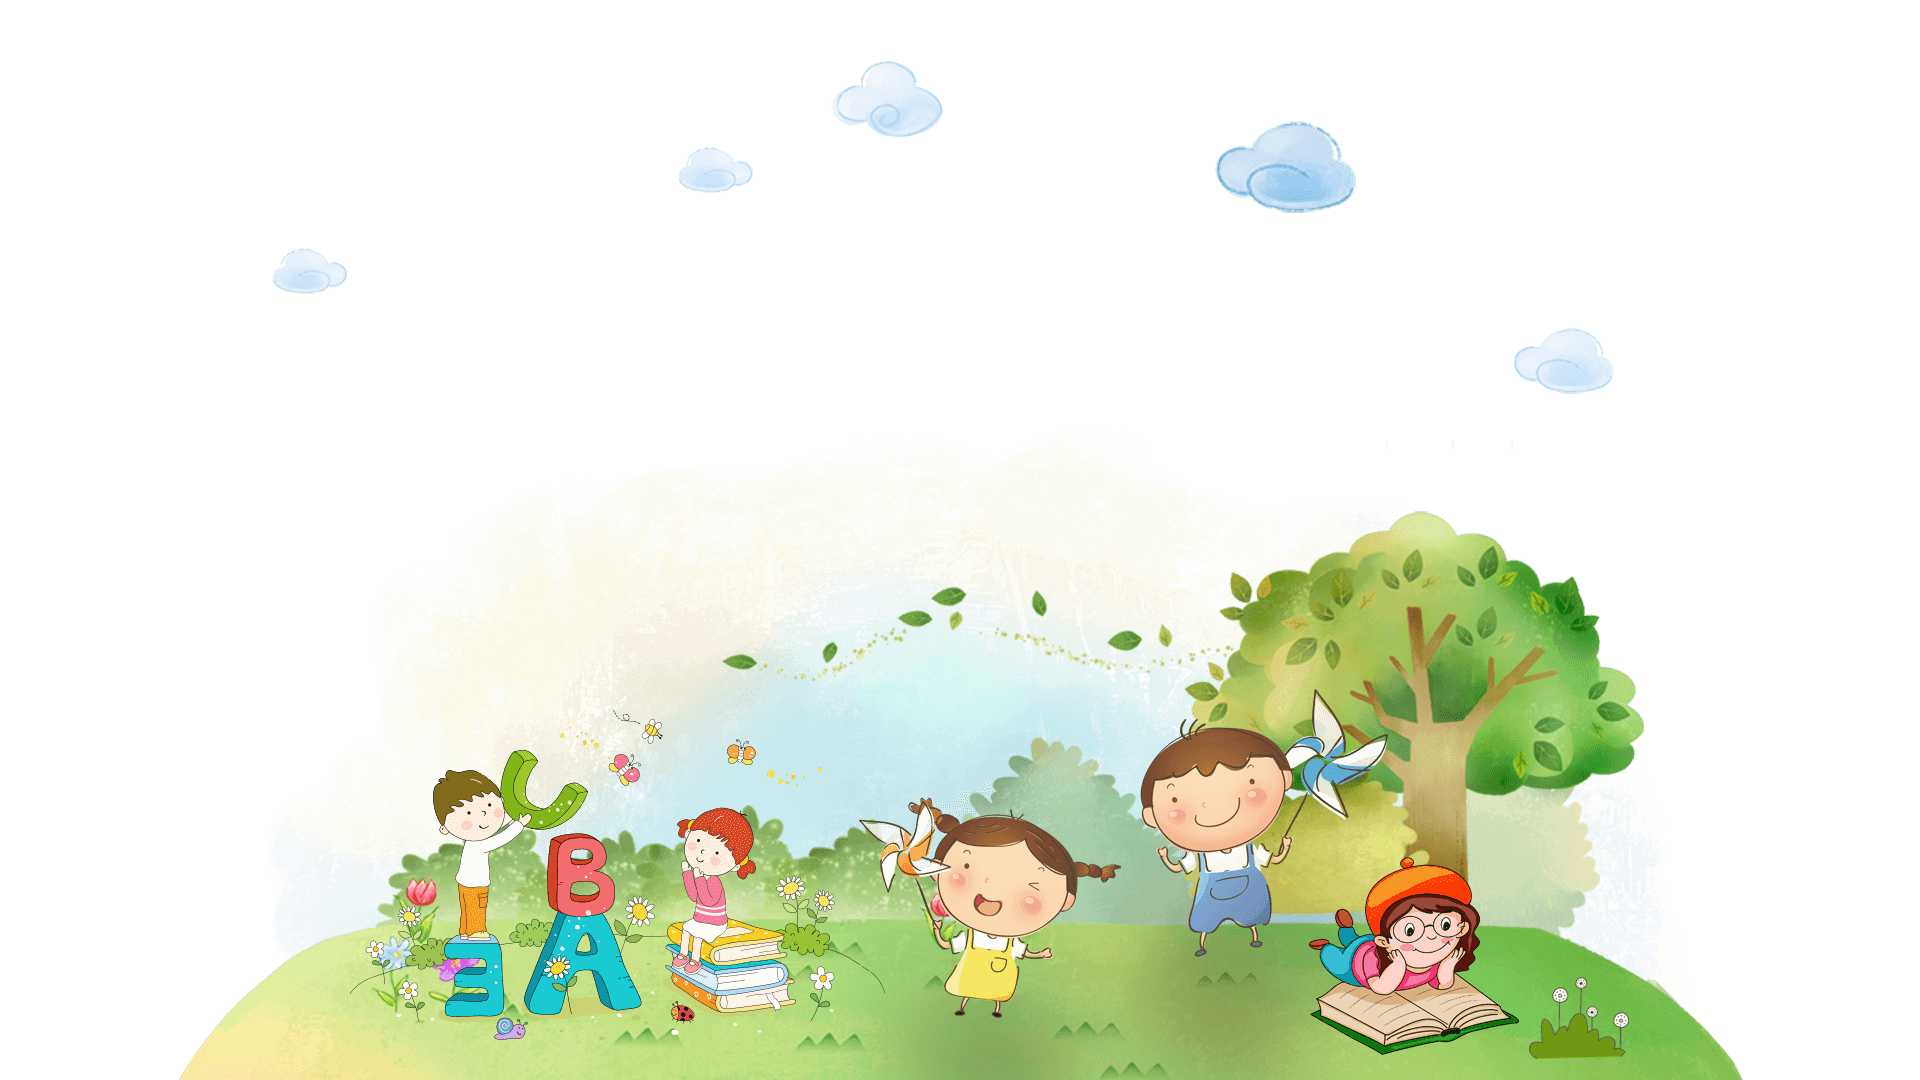
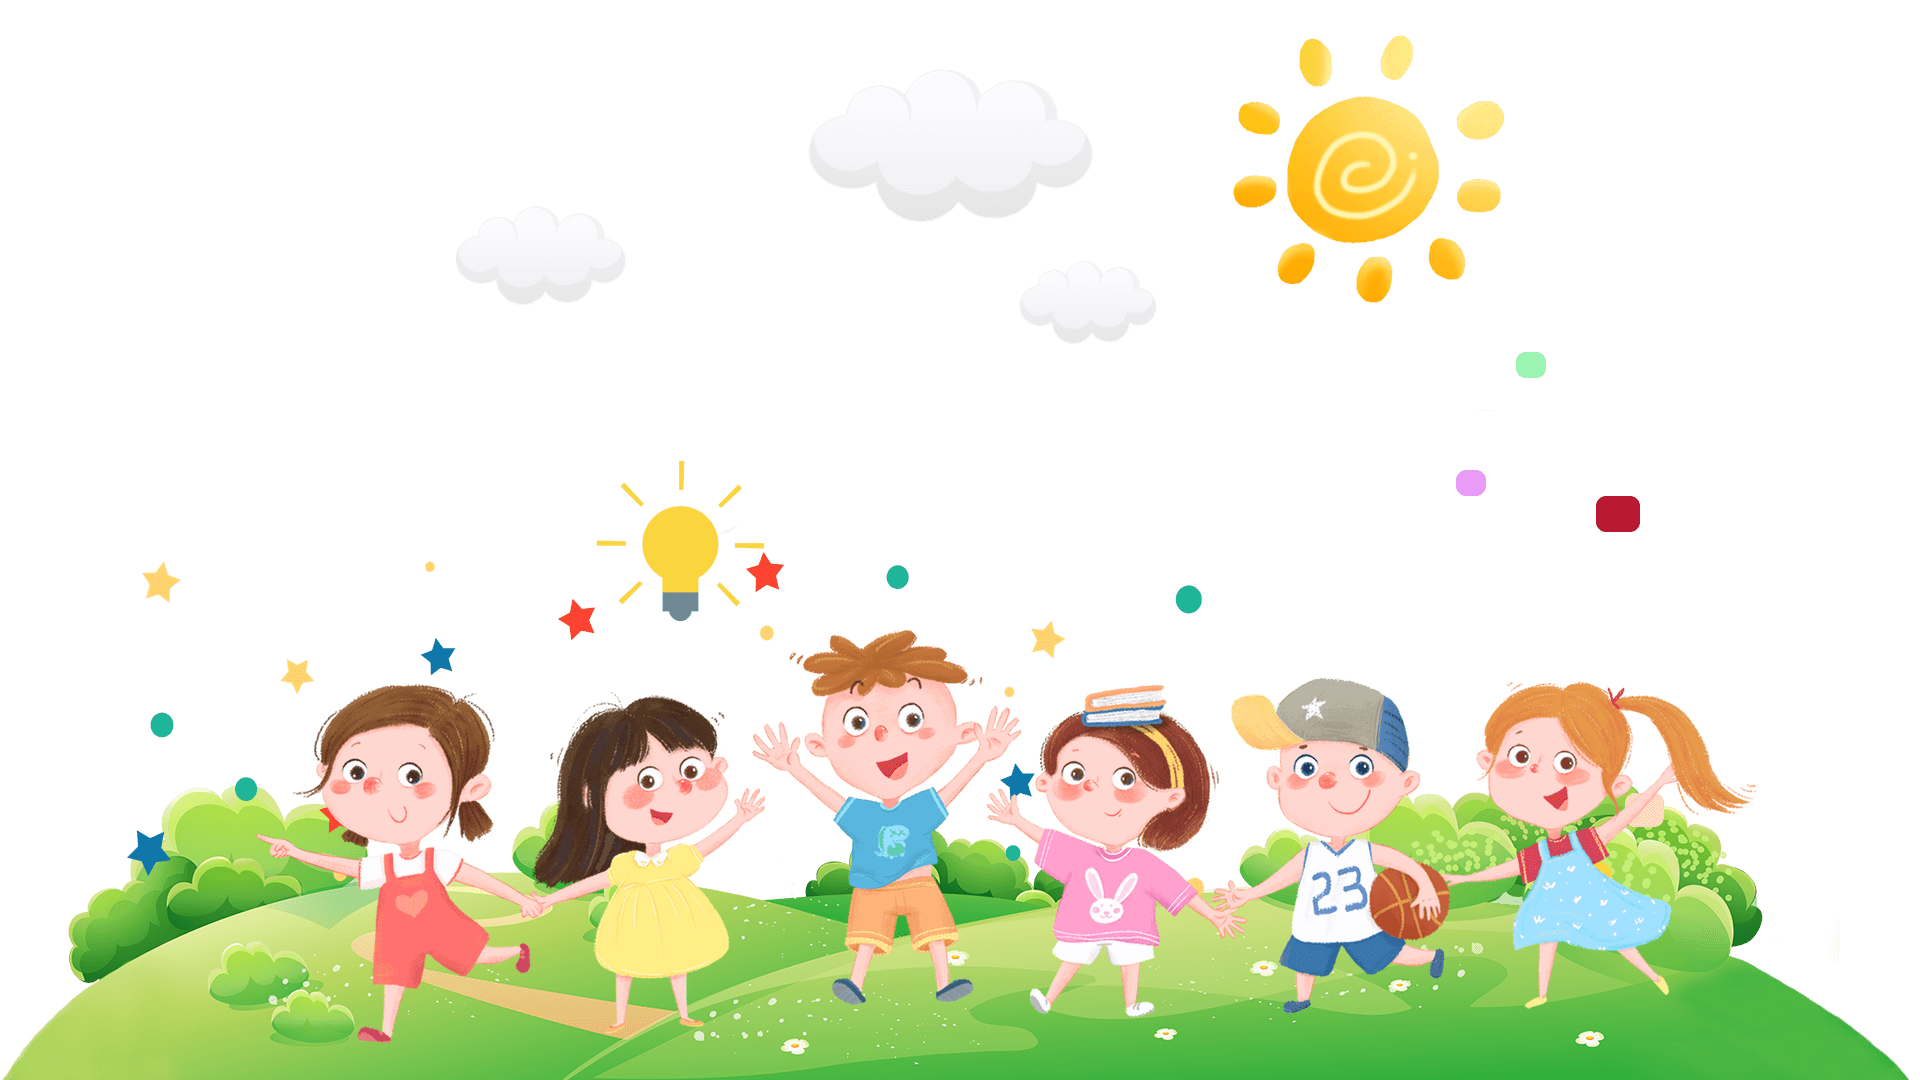
feat: 图片背景

diff --git a/src/views/comps/SettingDialog.vue b/src/views/comps/SettingDialog.vue
@@ -5,28 +5,30 @@
     class="setting-dialog"
     v-on="{ 'update:visible': close }"
   >
-    <!-- <template #outside>
+    <template #outside>
       <div class="setting-dialog_ornament"></div>
-    </template> -->
+    </template>
     <div class="setting-dialog_body">
       <div class="row" :class="{ err: challengerNameError }">
         <div class="row_label">挑战人：</div>
         <div class="row_value">
-          <j-input
-            ref="vInputName"
-            v-model:value="challengerName"
-            placeholder="请输入挑战人姓名"
-          />
+          <j-input ref="vInputName" v-model:value="challengerName" placeholder="请输入挑战人姓名" />
         </div>
         <div class="errmsg">必须填写挑战人才能进行挑战</div>
       </div>
       <div class="row">
         <div class="row_label">挑战模式：</div>
         <div class="row_value">
-          <RadioVue :checked="challengeMode==='normal'" name="challengeMode" @change="challengeMode = 'normal'"
+          <RadioVue
+            :checked="challengeMode === 'normal'"
+            name="challengeMode"
+            @change="challengeMode = 'normal'"
             >普通模式</RadioVue
           >
-          <RadioVue :checked="challengeMode==='hard'" name="challengeMode" @change="challengeMode='hard'"
+          <RadioVue
+            :checked="challengeMode === 'hard'"
+            name="challengeMode"
+            @change="challengeMode = 'hard'"
             >困难模式</RadioVue
           >
         </div>
@@ -45,7 +47,9 @@
       <div class="row">
         <div class="row_label">时间：</div>
         <div class="row_value">
-          <j-input v-model:value="time" class="time-ipt" @input="input"/><span class="sub">分钟</span>
+          <j-input v-model:value="time" class="time-ipt" @input="input" /><span class="sub"
+            >分钟</span
+          >
         </div>
       </div>
       <div class="btns">
@@ -57,7 +61,7 @@
 </template>
 
 <script setup lang="ts">
-import { ref, inject, watch, nextTick } from 'vue';
+import { ref, inject, watch, nextTick } from 'vue'
 import RadioVue from '@/components/RadioVue.vue'
 import DialogVue from './DialogVue.vue'
 import { setStorage } from '@/utils/local-storage'
@@ -149,16 +153,16 @@ function input(e: Event) {
   width: 400px;
 }
 
-// .setting-dialog_ornament {
-//   background: url('@/assets/icons.png') no-repeat 0 100%;
-//   background-size: 510px auto;
-//   width: 222px;
-//   height: 212px;
-//   position: absolute;
-//   top: -193px;
-//   right: 16px;
-//   z-index: 1;
-// }
+.setting-dialog_ornament {
+  background: url('@/assets/setting.png') no-repeat;
+  // background-size: 510px auto;
+  width: 196px;
+  height: 174px;
+  position: absolute;
+  top: -148px;
+  right: -8px;
+  z-index: 1;
+}
 
 .setting-dialog_body {
   font-size: 18px;

diff --git a/src/views/comps/ResultDialog.vue b/src/views/comps/ResultDialog.vue
@@ -4,9 +4,9 @@
     class="ResultDialog"
     v-on="{ 'update:visible': close }"
   >
-    <!-- <template #outside>
+    <template #outside>
       <div class="ResultDialog_ornament"></div>
-    </template> -->
+    </template>
     <div class="ResultDialog_body">
       <div v-if="completeMsg" class="row completeMsg">
         {{ completeMsg }}
@@ -63,15 +63,14 @@ function confirm() {
   width: 360px;
 }
 
-// .ResultDialog_ornament {
-//   background: url('@/assets/icons.png') no-repeat 0 0;
-//   background-size: 510px auto;
-//   width: 329px;
-//   height: 251px;
-//   position: absolute;
-//   top: -248px;
-//   right: 0;
-// }
+.ResultDialog_ornament {
+  background: url('@/assets/result.png') no-repeat;
+  width: 181px;
+  height: 214px;
+  position: absolute;
+  top: -212px;
+  left: 92px;
+}
 
 .ResultDialog_body {
   font-size: 18px;

diff --git a/src/comm.scss b/src/comm.scss
@@ -24,9 +24,8 @@ input {
   right: 0;
   left: 0;
   bottom: 0;
-  // background: url('@/assets/bg.png') 50% no-repeat;
-  // background: url(//eng.cqlql.ltd/static/bg-start.02c7e8b.png) 50% no-repeat;
-  // background-size: auto 100%;
+  background: url('@/assets/bg.png') 50% no-repeat;
+  background-size: auto 100%;
   // background-image: linear-gradient(138deg, #def7ff 0%, #6bddff 100%);
-  background-image: linear-gradient(138deg, #e9faff 0%, #afedff 100%);
+  // background-image: linear-gradient(138deg, #e9faff 0%, #afedff 100%);
 }

diff --git a/src/views/comps/StartContainer.vue b/src/views/comps/StartContainer.vue
@@ -20,8 +20,7 @@
       ref="vSettingDialog"
       v-model:visible="visible"
       title="挑战设置"
-    >
-    </SettingDialog>
+    />
   </j-container>
 </template>
 
@@ -74,8 +73,7 @@ function popupSetting() {
     top: -2px;
     right: 50px;
     line-height: 1;
-    background: url('@/assets/icons.png') no-repeat 79.792% 22.197%;
-    background-size: 510px auto;
+    background: url('@/assets/setting-icon.png') no-repeat;
     width: 30px;
     height: 28px;
     cursor: pointer;
